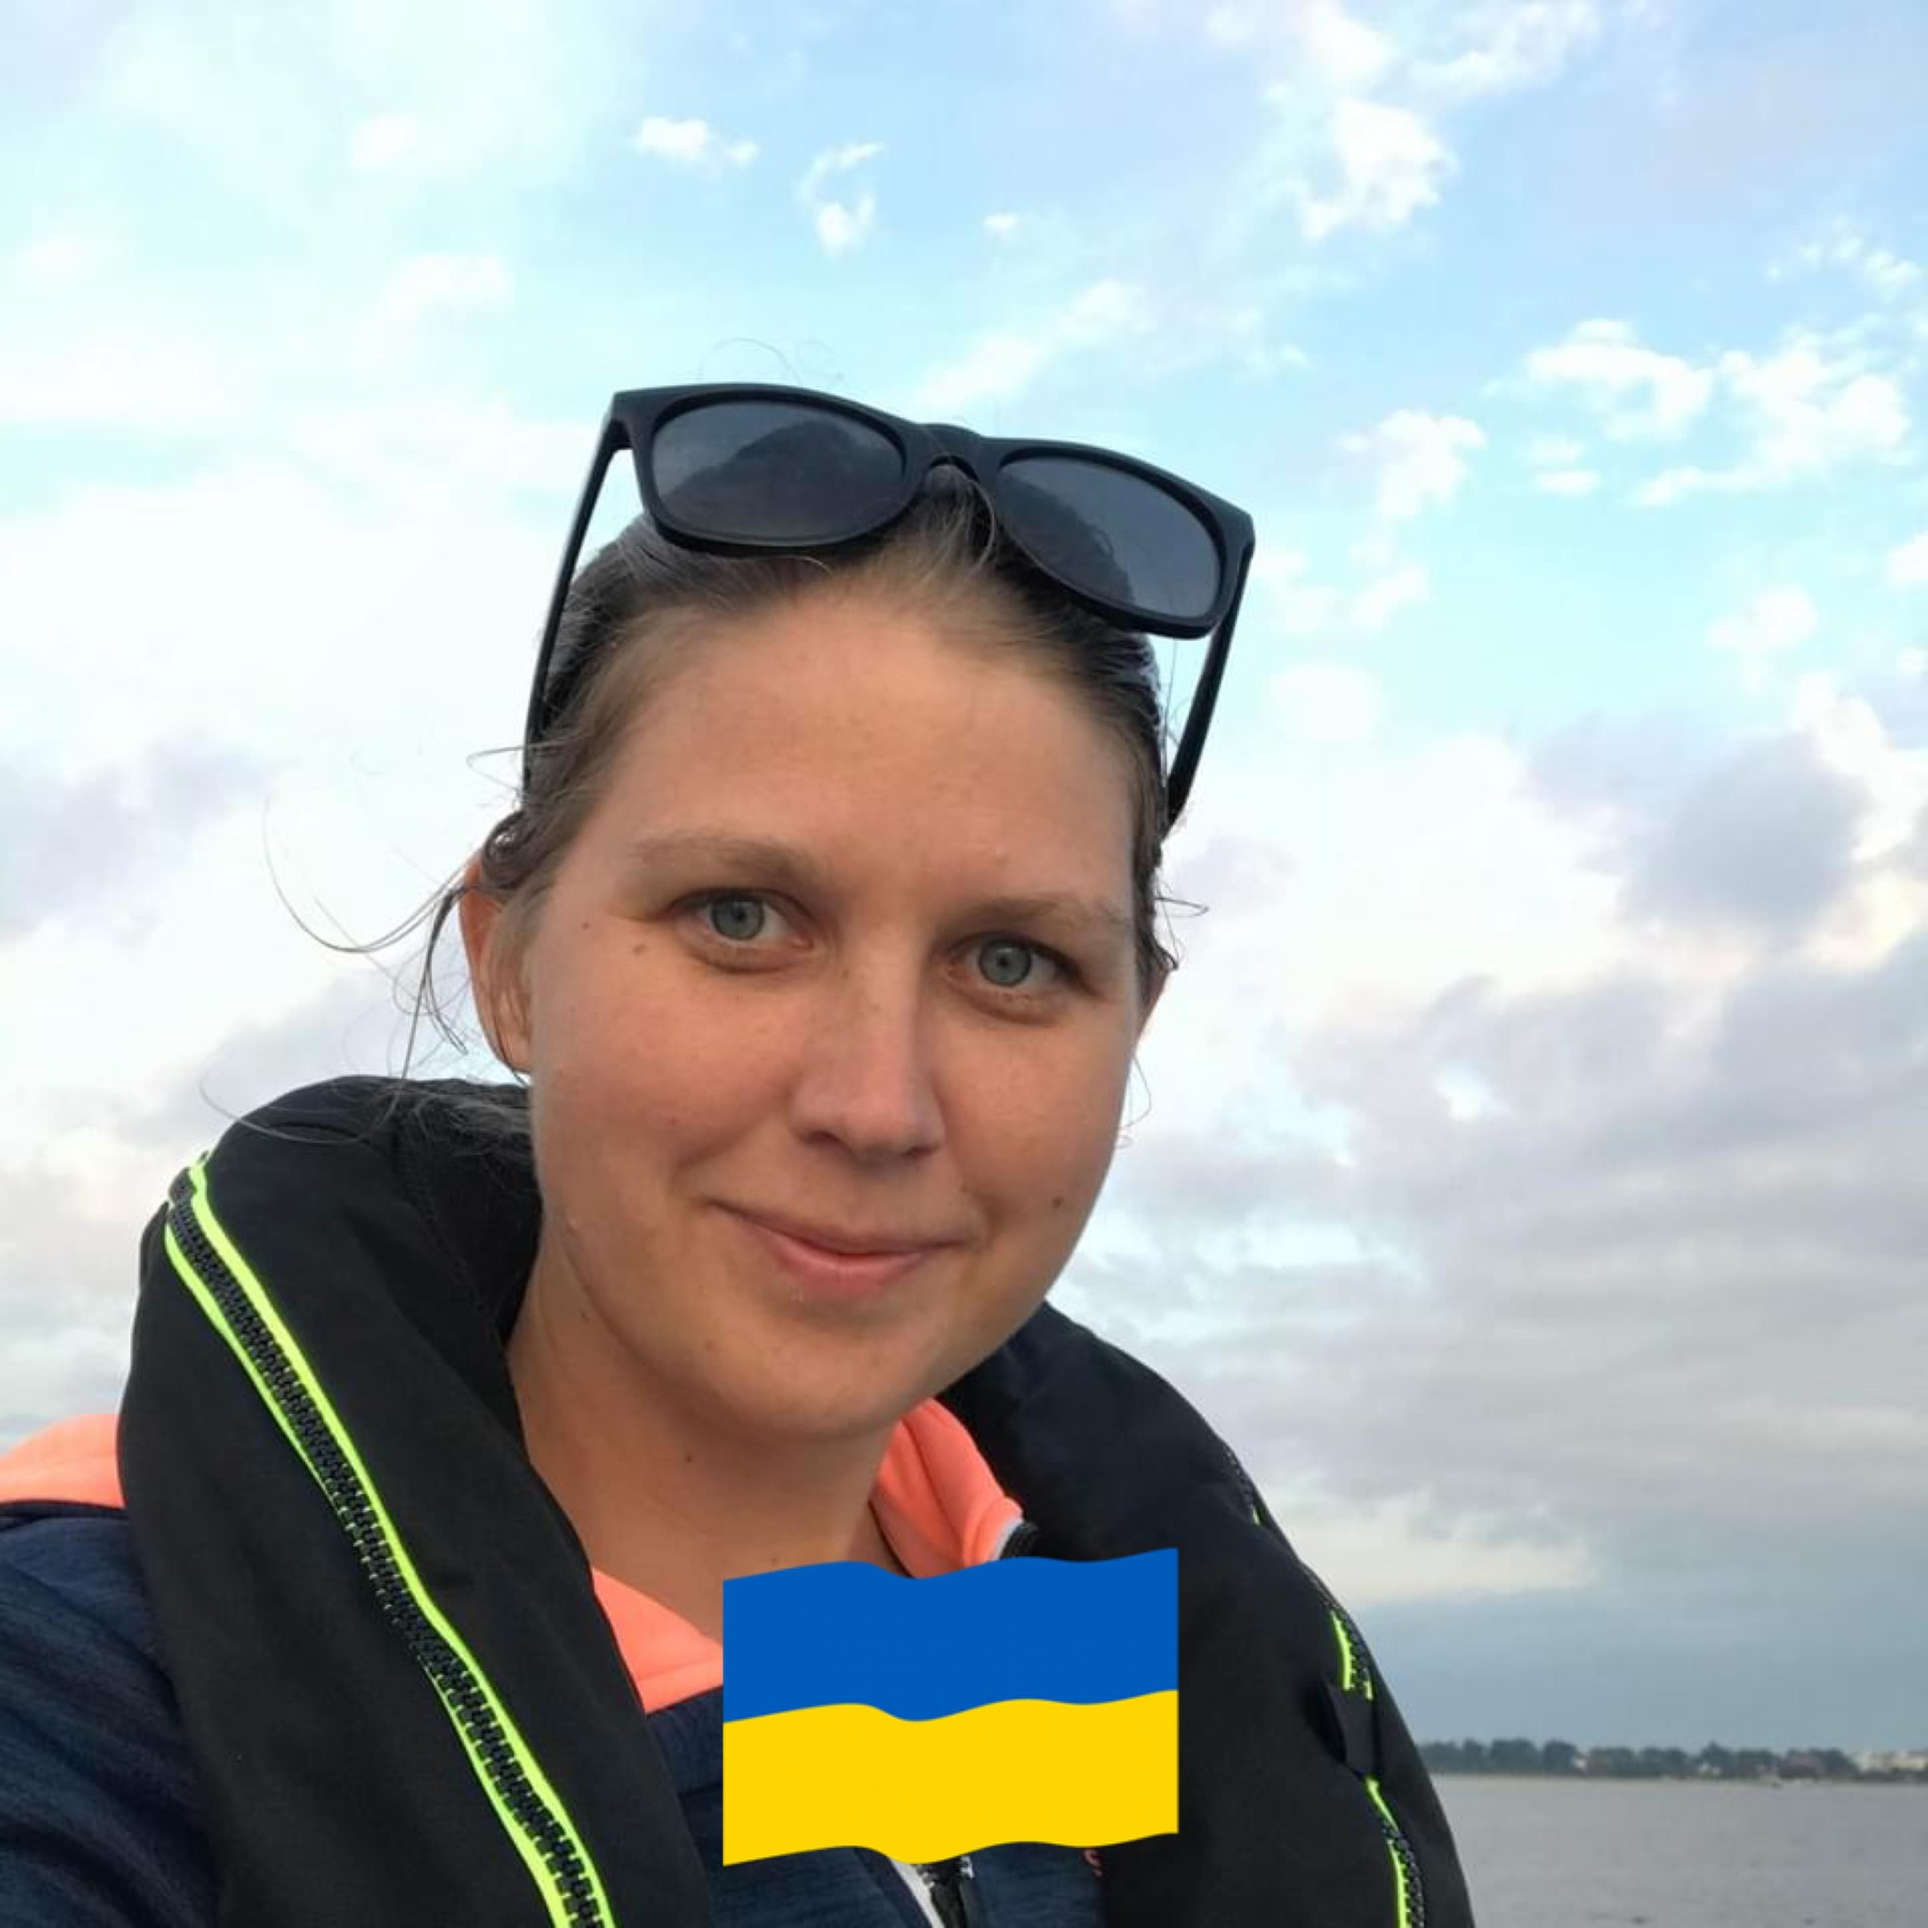
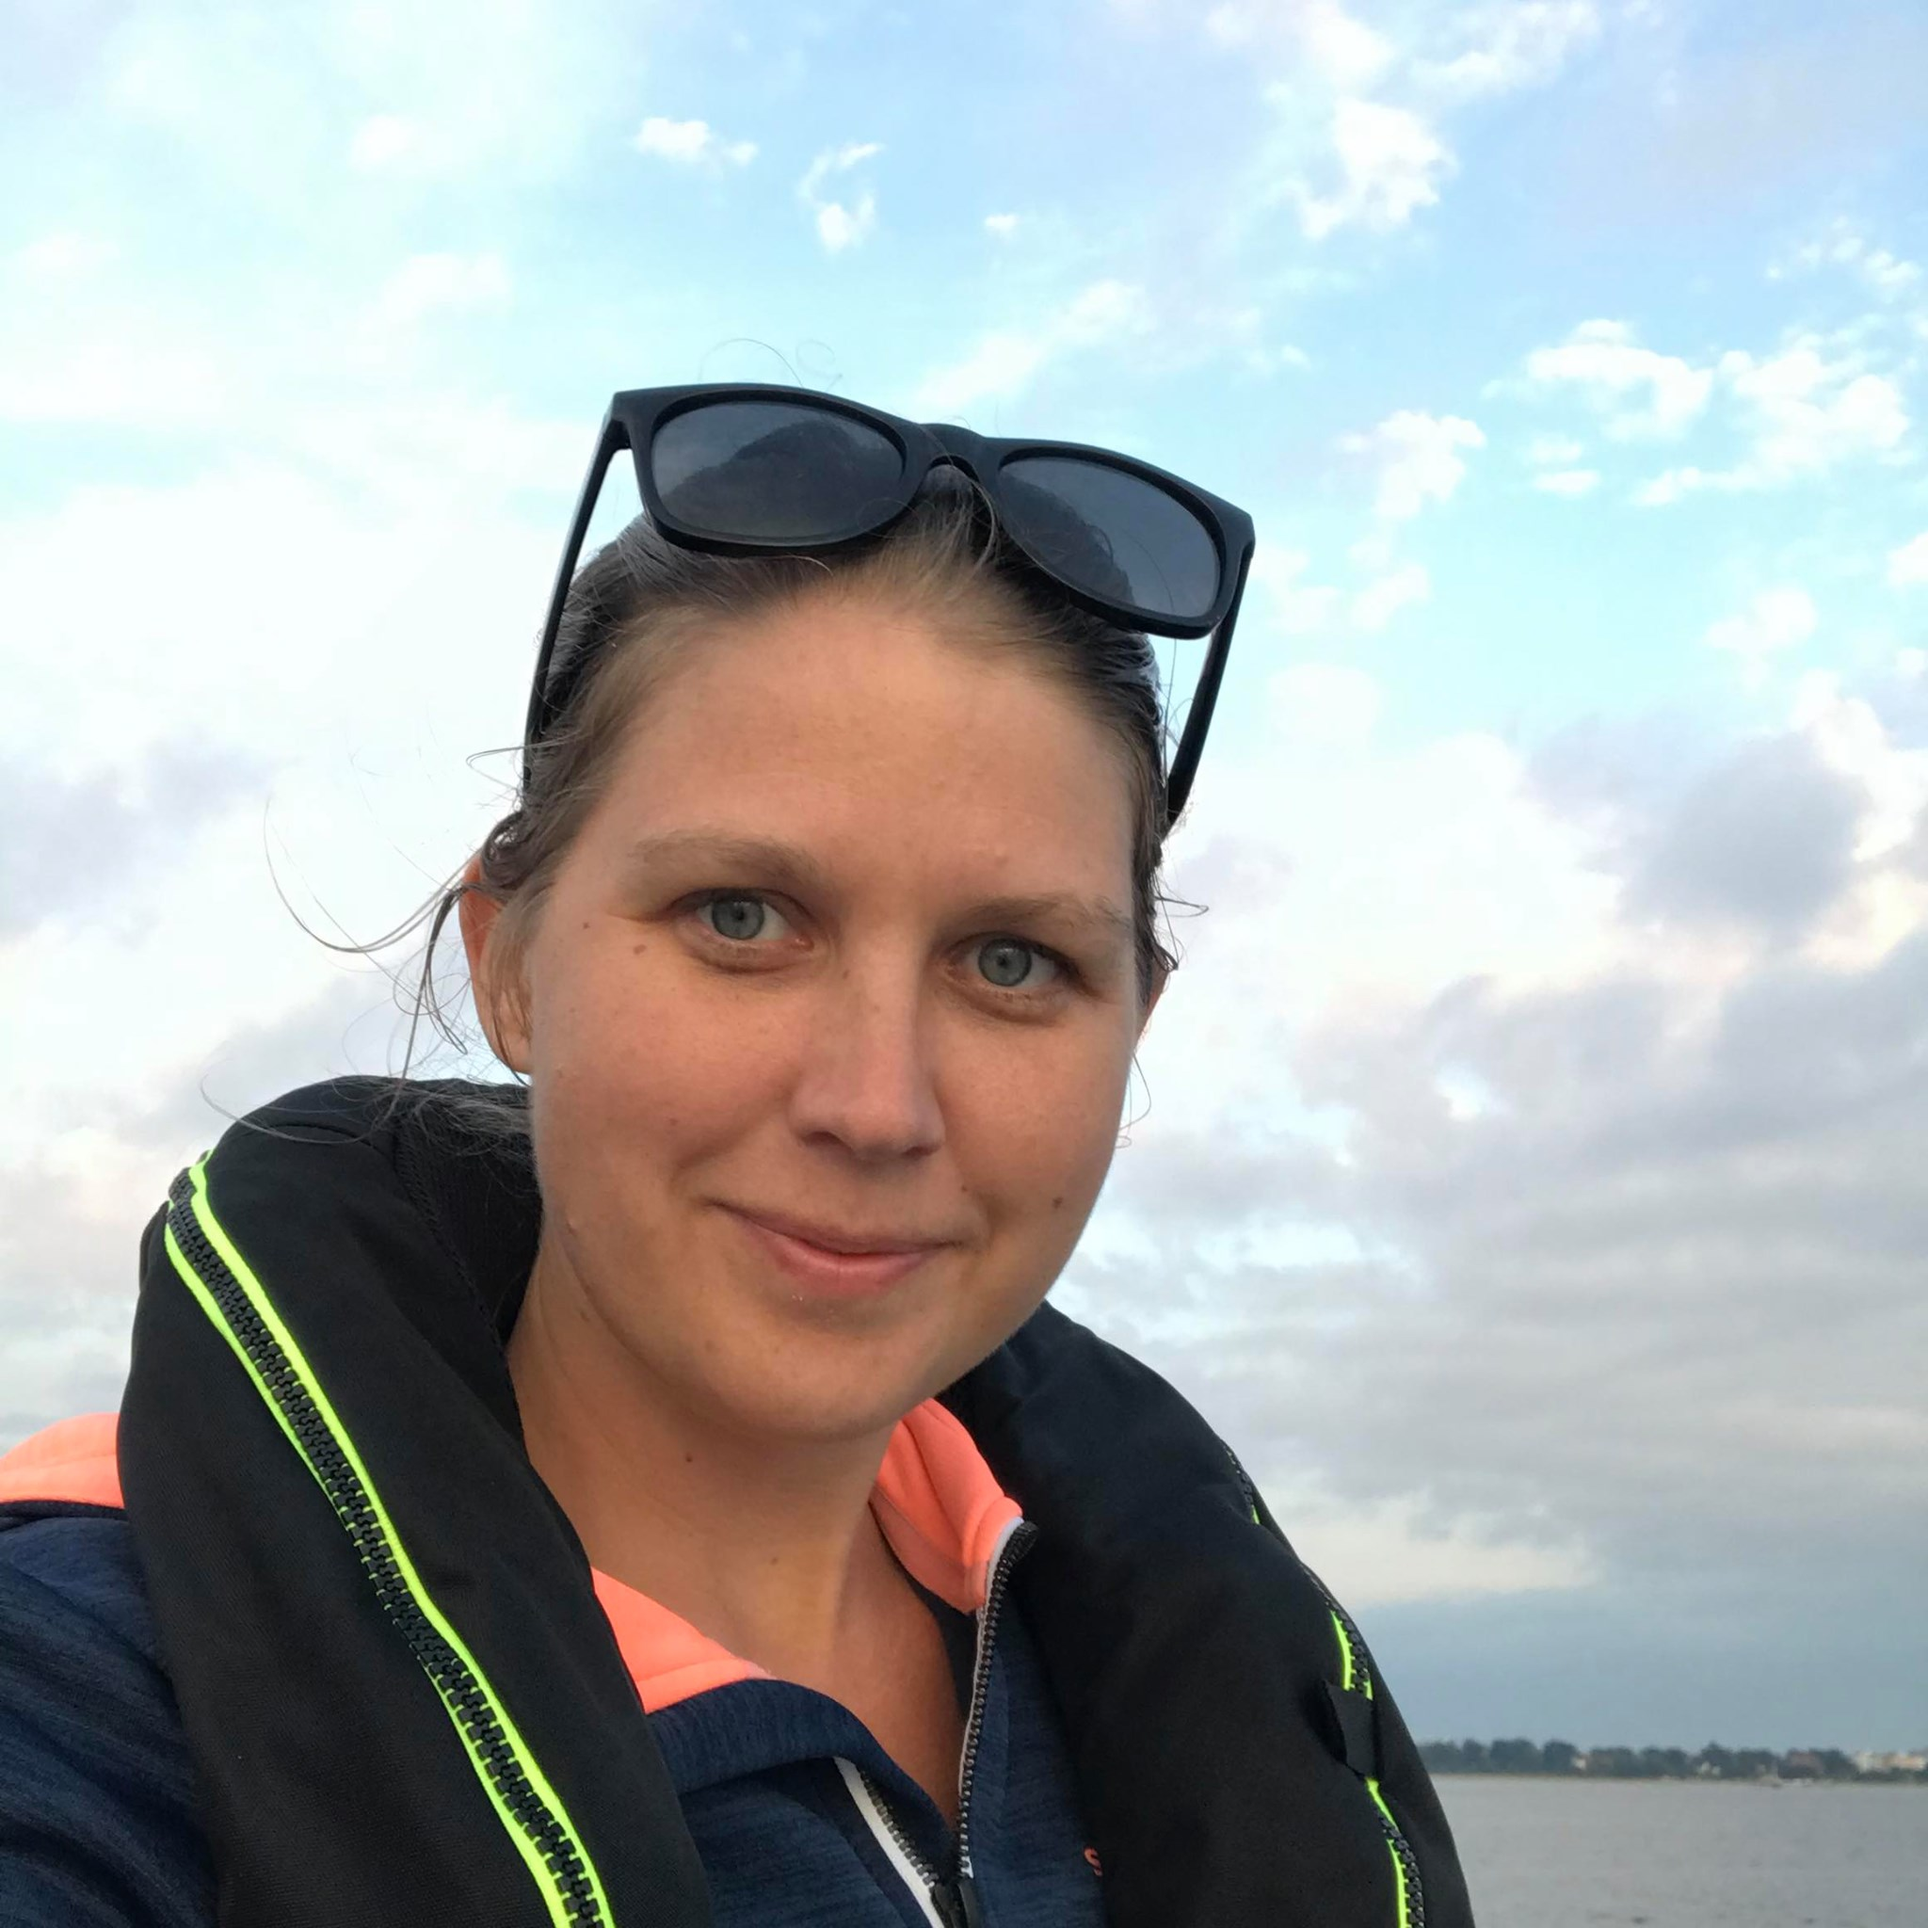
Fixat stavel och uppdaterat bild

diff --git a/content/guests/Ziad.md b/content/guests/Ziad.md
@@ -7,4 +7,4 @@ disable_share: true
 weight: 38
 ---
 
-Vän med brudgummen sedan gymnasiet. Uppvuxen i Malmö men bor nu i Uppsala med Ali Fares. Duktig fotbollsspelare som ung men la bollen på hyllan och arbetar nu inom programering. Vill du hålla ditt bröllop i Libanon kan Ziad hjälpa till.
+Vän med brudgummen sedan gymnasiet. Uppvuxen i Malmö men bor nu i Uppsala med Ali Fares. Duktig fotbollsspelare som ung men la bollen på hyllan och arbetar nu inom programmering. Vill du hålla ditt bröllop i Libanon kan Ziad hjälpa till.

diff --git a/content/guests/Ali.md b/content/guests/Ali.md
@@ -7,4 +7,4 @@ disable_share: true
 weight: 39
 ---
 
-Uppvuxen i Malmö men lämnade staden för att bli Uppsalas festprins. Har nu bytt ut glassbilen mot ett skrivbord. Kan allt om domkyrkan i Uppsala, visse ni att den är lika hög som lång?
+Uppvuxen i Malmö men lämnade staden för att bli Uppsalas festprins. Har nu bytt ut glassbilen mot ett skrivbord. Kan allt om domkyrkan i Uppsala, visste ni att den är lika hög som lång?
